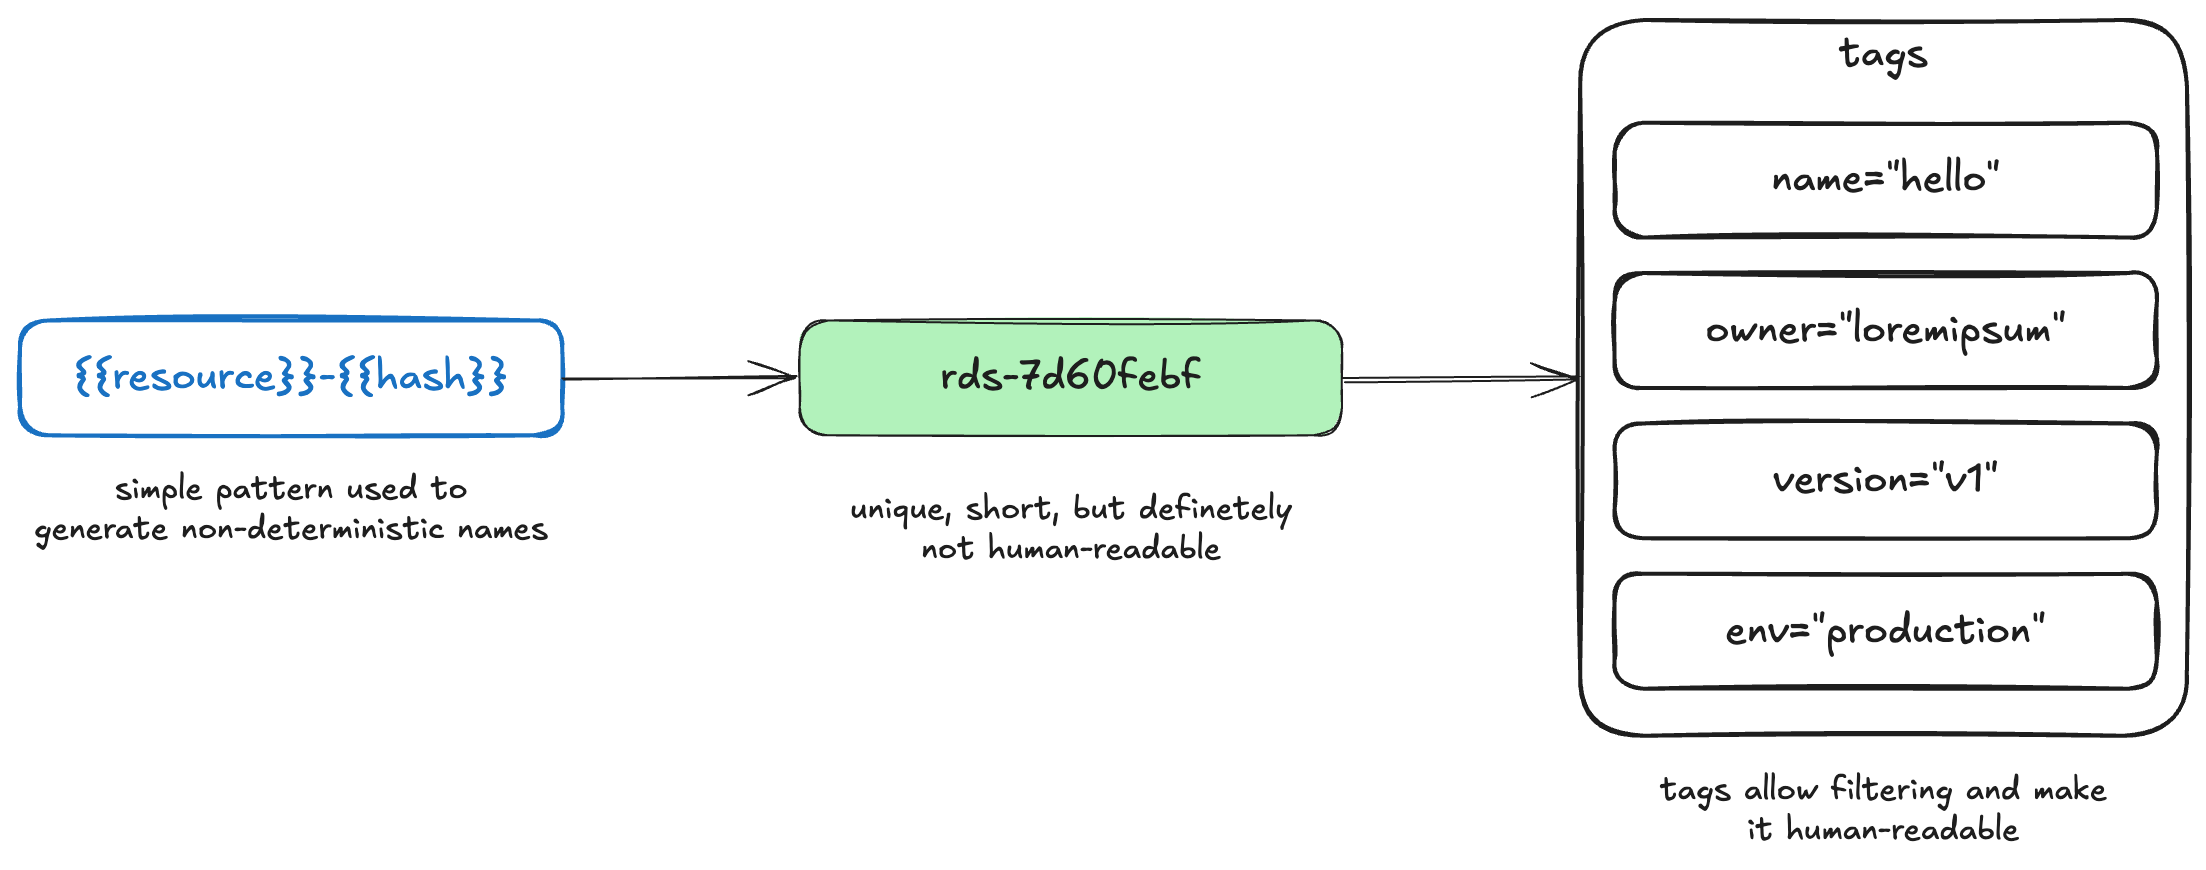
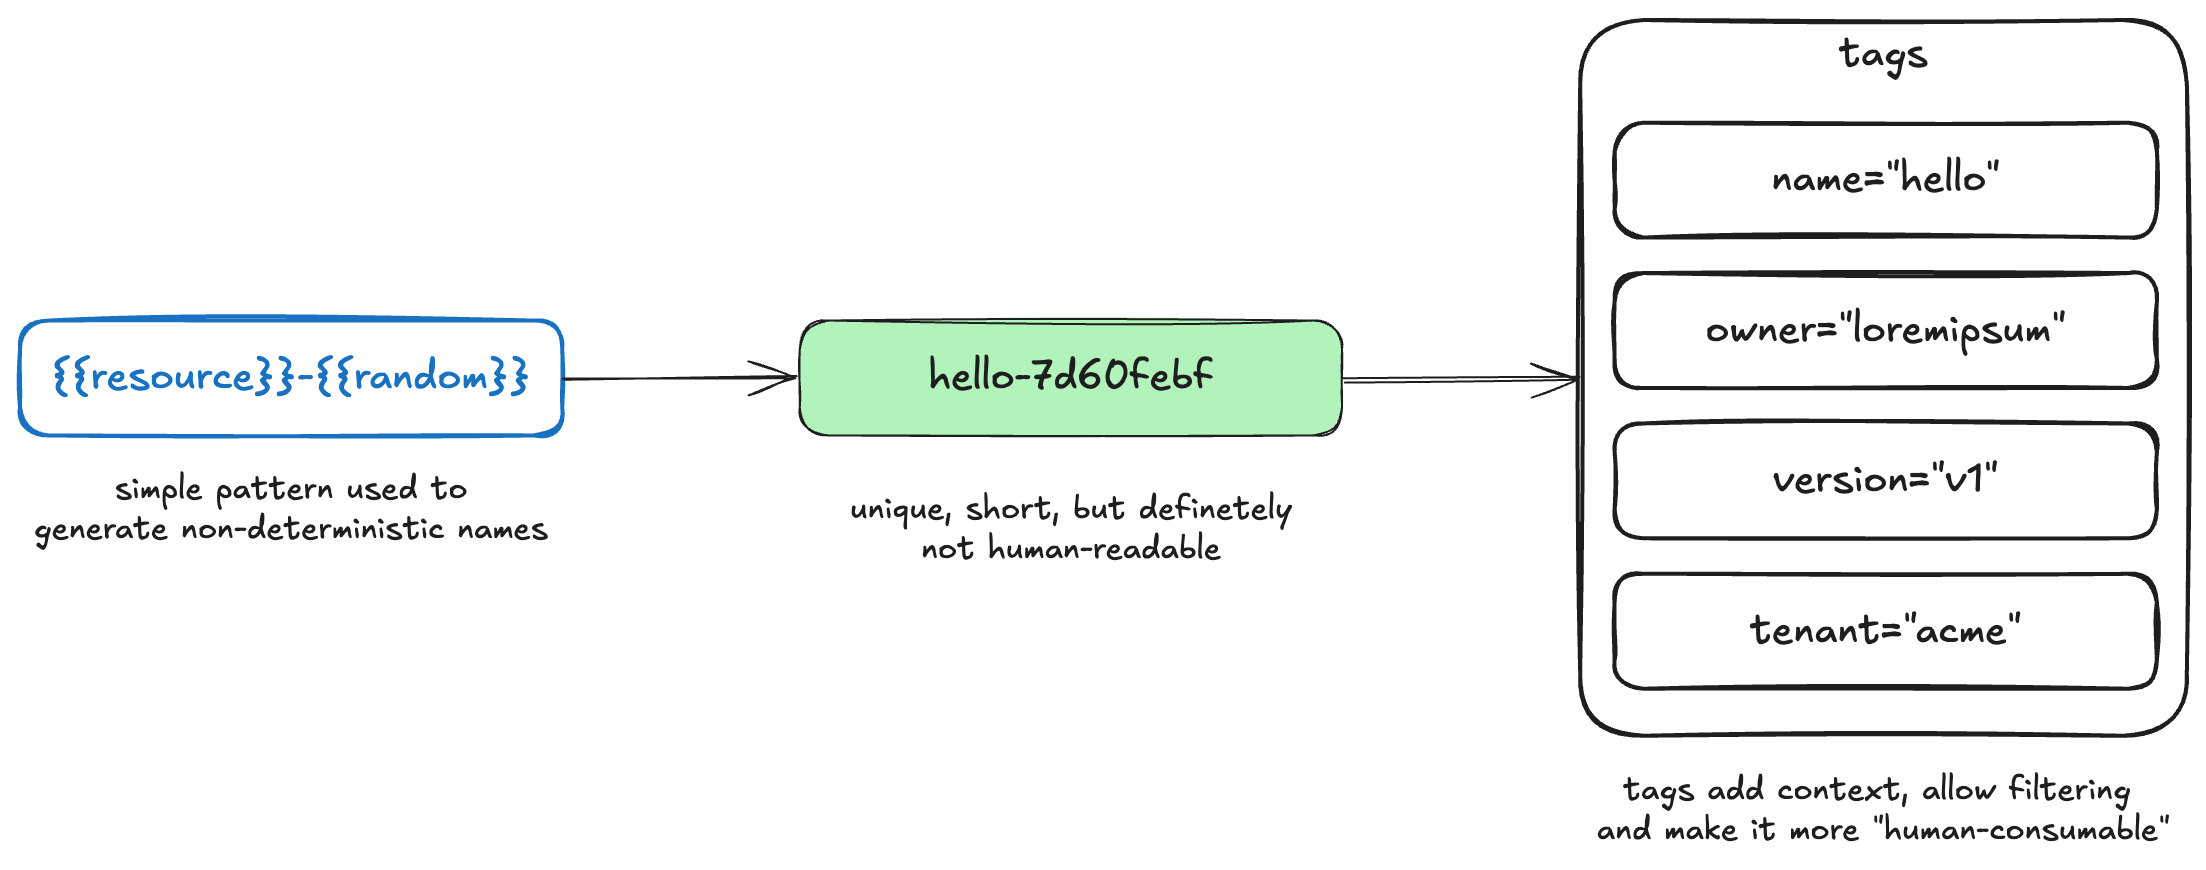
tweak 2

diff --git a/content/blog/2025/aug/non-deterministic-resource-names/index.md b/content/blog/2025/aug/non-deterministic-resource-names/index.md
@@ -9,11 +9,11 @@ cover:
 
 ---
 
-Most of us have to name “things” daily: variables, functions, services, cloud resources and others. Most are easy to change due to refactoring tools, but cloud resources can be impossible. Most vendors require full resource replacement: renaming a database leads to restore/recreate, and a load balancer requires shifting live traffic to a new instance. **I will cover how to avoid major complications by simply re-thinking how you name cloud resources** and (hopefully) avoid renames.
+Most of us have to name “things” daily: variables, functions, services, cloud resources and others. Most are easy to change due to refactoring tools, but cloud resources can be impossible at times. Most vendors require full resource replacement: renaming a database leads to restore/recreate, and a load balancer requires shifting live traffic to a new instance. **I will cover how to avoid major complications by simply re-thinking how you name cloud resources** and (hopefully) avoid renames**.**
 
-## **Could a naming strategy help?**
+## **Could a naming convention help?**
 
-Since names are hard to change, teams might settle on a strategy that provides unique names, human-readable format so filtering/finding it is easy, and makes it simple to parse with automation, to name a few. **But naming strategies are generally not good** and you will see why.
+Since names are difficult to change, teams might settle on a strategy that provides unique names, a human-readable format so that filtering and finding are easy, and makes it simple to parse with automation, among other considerations. **But naming conventions generally fail mainly because we can't predict “the future”**.
 
 Standardised names will follow a pattern that allows “context” around that resource, defined by indicators that exist (eg, type or environment) or might exist in the future (eg, tenant or version). For example, consider a `hello` service needs a Postgres in AWS (RDS), these could be potential names:
 
@@ -21,54 +21,58 @@ Standardised names will follow a pattern that allows “context” around that r
 - `{{cloud_res}}_{{name}}_{{version}}_{{region}}` ⇒ `rds_hello_v1_eu-west-1`… but what happens if we have to indicate the many environments and a potential second cloud provider?
 - `{{vendor}}_{{env}}_{{cloud_res}}_{{name}}_{{version}}_{{region}}` ⇒  `aws_dev_postgres_hello_v1_eu-west-1`… and so on
 
-There might be even more variations depending on what indicators are desirable. Extra indicators are favoured to give full context around the resource but it usually backfires, since they become quite long and confusing due to the amount of information in them.
+There might be even more variations depending on what indicators are desirable. Extra indicators are favoured to give full context around the resource, but they usually backfire, since they become quite long and confusing due to the amount of information in them.
 
-Also, the last example is already quite long (45 characters) and it could be even longer.  Cloud vendors or platforms have character limits (eg, AWS S3 ⇒ 63 characters) and it wouldn't be too hard to hit them due varying indicators (eg, `dev` ⇒ `production`: \+7 characters).
+Also, the last example is already quite long (45 characters), and it could be even longer. Cloud vendors or platforms have character limits (eg, AWS S3 ⇒ 63 characters), and it wouldn't be too hard to hit them due to varying indicators (eg, `dev` ⇒ `production`: \+7 characters).
 
-Besides the concerns above, the initial problem still holds: **renaming is hard**. **Naming strategies are fragile since it is hard to predict future changes** (eg, extra indicators). Not only, if more indicators are required, the strategy will be broken and a `v2` will be needed, leaving an organised mess behind.
+Besides the concerns above, the initial problem still stands: **renaming is hard**. **Naming conventions are fragile since it is hard to predict future changes** (eg, extra indicators). Not only, if more indicators need to be added, the strategy will be broken and a `v2` will be needed, leaving an organised mess behind.
 
-![](./diagram-name1.png)
+It might still be okay to use a naming convention if kept simple. And that simplicity might lie in non-deterministic names.
+
+![][image1]
 
 ## **Non-deterministic names**
 
-The world would be a better place if those strategies were only name \+ suffix (date or version), such as `hello_v1`, but that is not the case.
+What if instead of a complex naming convention, engineers simply used name \+ suffix, such as `<name>-<random_str>`? `hello` could have a database called `hello-cc1dah` and be in a VPC called `private-ec9fhx`. **It sounds crazy to some, but using a short name with a non-deterministic suffix basically turns it into an ID, and IDs shouldn't be updated, solving our initial renaming problem.**
 
-But, what if the `<name>-<suffix>` pattern was replaced with `<resource>-<hash>`, resulting in names that look more like IDs (`rds-7d60febf` or `vpc-57444099`)? **It sounds crazy, but since non-deterministic names behave like IDs, they should never need renaming, solving our initial problem.**
+Before you think of using merely IDs, such as UUIDs, without a prefix: not only would it give zero context to your team when navigating in the UI, but most vendors will have limitations around the first character being a letter. So just don't.
 
-These names, although solving uniqueness, wouldn't give any indication how `rds-7d60febf` relates to `hello`, for example. This is because there are better alternatives to provide extra context without bloating the name.
+Some might argue though that a resource called `hello-cc1dah` in your AWS Console does not give much detail about it. This is because there are better alternatives to provide extra context without overloading the name.
 
-To begin with, indicators such as region and vendor are pretty much unique to a resource already. Even the environment might be (eg, each environment has its own account). These are most likely already exported in logs or traces, and search and reporting tools will likely allow filtering by those.
+To begin with, indicators such as region, resource type and vendor are pretty much unique to a resource already. Even the environment might be (eg, if the account/project maps to an environment). These are most likely already exported in logs or traces, and search and reporting tools will likely allow filtering by those.
 
-But how would someone know that `rds-7d60febf` is the `hello`'s database? The answer is tagging.
+Besides those indicators, how can someone extract further data from `hello-cc1dah`, such as version, tenant, etc? The answer is tagging.
 
 ## **Tagging for filtering**
 
 Tags are key/value metadata that can be attached to resources in cloud vendors. Compared to names, they are generally mutable, solving our concerns around future renames.
 
-**Teams can implement a tagging strategy with a common set of required tags that give enough information about a certain resource**. Information such as `name`, `owner`, `version` and `environment` can be added and leveraged for filtering. They are not only useful to find resources in the console, but also to support operations (logs, traces, automation), billing management, data security and risk management.
+**Teams can implement a [tagging strategy](https://medium.com/@keeganjustis/why-your-tagging-strategy-matters-on-aws-ab8c3b8335a6) with a common set of required tags that give enough information about a certain resource**. Information such as `name`, `owner`, `version` and `tenant` can be added and leveraged for filtering. They are not only useful to find resources in the console, but also to support operations (logs, traces, automation), billing management, data security and risk management.
 
-Different from names, detecting resources that are non-conformant to the tagging strategy is easier. This is because compliance can be enforced via policies. When updating resources, the policy will trigger, requiring an engineer to adjust it and add at least a few common tags.
+Different from names, detecting resources that are non-conformant to the tagging strategy is easier. This is because compliance can be enforced via policies, [either on the vendor](https://docs.aws.amazon.com/organizations/latest/userguide/orgs_manage_policies_tag-policies.html) or [on the IaC](https://developer.hashicorp.com/terraform/cloud-docs/policy-enforcement/define-policies/opa). When updating resources, the policy will trigger, requiring an engineer to adjust it and add at least a few common tags.
 
-You might still be thinking though: `rds-7d60febf` wouldn't be a very friendly name to look at in the console. Hence why some cloud providers have special tags to allow a “display name” in the Console (AWS: `tag:Name`). Since they are generally mutable, engineers can apply some standardisation on them and change as required.
+**Once resources have a common set of tags enforced, it is important that those are exported to support operational tools.** For example, observability platforms (eg, Datadog or Grafana) must have the relevant tag information so an engineer can identify `hello-abc` is related to a specific environment or customer.
 
-ℹ Even if you don't want to embrace non-deterministic naming, tags are still quite powerful and I strongly recommend any company to understand how to best use them and implement a basic strategy. AWS has a good guide around [tagging strategy](https://docs.aws.amazon.com/whitepapers/latest/tagging-best-practices/building-your-tagging-strategy.html) and [tagging use cases](https://docs.aws.amazon.com/whitepapers/latest/tagging-best-practices/tagging-use-cases.html).
+Bear in mind that some cloud providers can leverage tags to display names for some resources in the Console. [For AWS Compute/Networking resources with `tag:Name`](https://docs.aws.amazon.com/AWSEC2/latest/UserGuide/Using_Tags.html#:~:text=The%20console%20might%20organize%20resources%20according%20to%20the%20Name%20tag%2C%20but%20this%20tag%20doesn%27t%20have%20any%20semantic%20meaning%20to%20the%20Amazon%20EC2%20service.), and [Azure resources tagged with `hidden-title`](https://learn.microsoft.com/en-us/community/content/hidden-tags-azure#hidden-title). This can be useful in scenarios where the team wants to give extra context via the name while still keeping mutability as an option.
 
-![](./diagram-name2.png)
+ℹ Even if you don't want to embrace non-deterministic naming, tags are still quite powerful, and I strongly recommend that any company understand how to best use them and implement a basic strategy. AWS has some guides around [tagging strategy](https://docs.aws.amazon.com/whitepapers/latest/tagging-best-practices/building-your-tagging-strategy.html) and [tagging use cases](https://docs.aws.amazon.com/whitepapers/latest/tagging-best-practices/tagging-use-cases.html), as well as other vendors. I found “[Why Your Tagging Strategy Matters on AWS](https://medium.com/@keeganjustis/why-your-tagging-strategy-matters-on-aws-ab8c3b8335a6)” a quite comprehensive guide around the topic.
 
-## **Referencing for IaC**
+![][image2]
 
-Previously, a shared naming module could generate the same name elsewhere based on the same unique indicators from the naming strategy. This is not an option anymore and copying the name around is not great, since they are not easily identifiable. How can it be referenced around though?
+## **What about Infrastructure as Code?**
 
-Most IaC tools have input and output mechanisms. `hello` stack likely would output the generated name, and this could be used as an input in another stack.
+These changes should not cause too many issues with Infrastructure as Code. If the name of the resource is used elsewhere as a reference, you are already leveraging output features somehow ([Terraform output](https://developer.hashicorp.com/terraform/language/values/outputs)).
 
-On Terraform, the good old `terraform_remote_state` can be used, where users can reference the outputs of a remote state/stack (`hello`). But, there will be a higher coupling to this remote state, which is the reason some use shared naming packages paired with `data` resources instead, and stacks referencing it might not automatically get updated states and drift.
+**In Terraform/OpenTofu, features such as `terraform_remote_state` and `data` resources can be used to pull outputs from other stacks**, not requiring engineers to reference names directly, and hopefully are already used instead of hard-coding names around. Also, some IaC platforms allow teams to link dependencies and outputs externally, re-syncing stacks automatically after an output change upstream (eg, HashiCorp [Linked Stacks](https://www.hashicorp.com/en/blog/new-in-hcp-terraform-linked-stacks-enhanced-tags-and-module-lifecycle-management) or Spacelift [Stack Dependencies](https://docs.spacelift.io/concepts/stack/stack-dependencies)).
 
-If you use an IaC platform to manage your infrastructure, you might be able to define dependencies between stacks and, when a stack is triggered and its output changes, downstream dependencies will receive the values via `variable` inputs and trigger a reconciliation (eg, HashiCorp [Linked Stacks](https://www.hashicorp.com/en/blog/new-in-hcp-terraform-linked-stacks-enhanced-tags-and-module-lifecycle-management), Spacelift [Stack Dependencies](https://docs.spacelift.io/concepts/stack/stack-dependencies), Crossplane). **In this case, the `name` of the resource is just passed around, without users having to actively think about it.** Users can either use it directly or pull more details using `data` objects.
-
-**Just don't feel tempted to use `data` solely through tags.** Tags can change over time and it might break your infrastructure in the future. An example would be a tag removal or update from the source that causes dependencies to not be able to retrieve it anymore.
+**Just don't feel tempted to use `data` solely through tags.** Tags can change over time, and it might break your infrastructure in the future. An example would be a tag removal or update from the source that causes dependencies to not be able to retrieve it anymore.
 
 ## **Conclusion**
 
-If the company already has an existing naming strategy, moving away from it or implementing in tandem might not be easy. **For new projects though, I would recommend considering non-deterministic names paired with a strong tagging strategy.**
+If the company already has an existing naming convention, moving away from it or implementing it in tandem might not be easy. **For new projects though, I would suggest considering non-deterministic names paired with a strong tagging strategy**, enforced via policies.
 
-Ideally, teams must have tools to link stacks and keep outputs (such as generated names) synced with downstream dependencies, and as well tags must be exported anywhere engineers might need to filter results for specific resources (billing/observability platforms). Without these two, using non-deterministic names can be painful since there is a higher cognitive load, such as manual copy/pastes for IaC and a mapping of what each resource name identifies when searching for it.
+Teams must ensure the relevant tags are exported anywhere engineers might need to filter results for specific resources (billing/observability platforms), and IaC tools can somehow pull the generated name without having to hardcode in its dependent stacks. Otherwise, it can be slightly painful for anyone to identify or use the generated names by this strategy.
+
+[image1]: ./diagram-name1.png
+
+[image2]: ./diagram-name2.png
